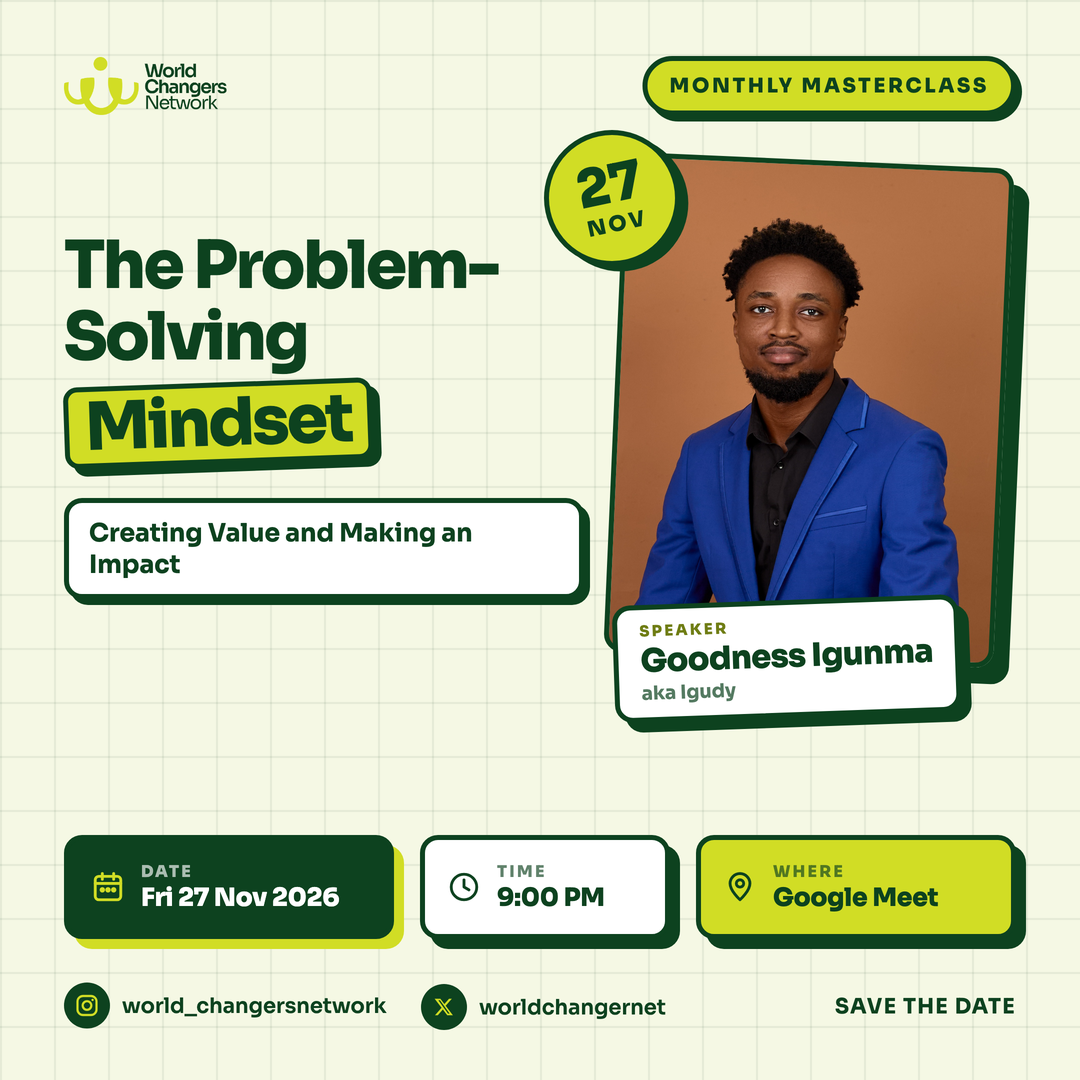
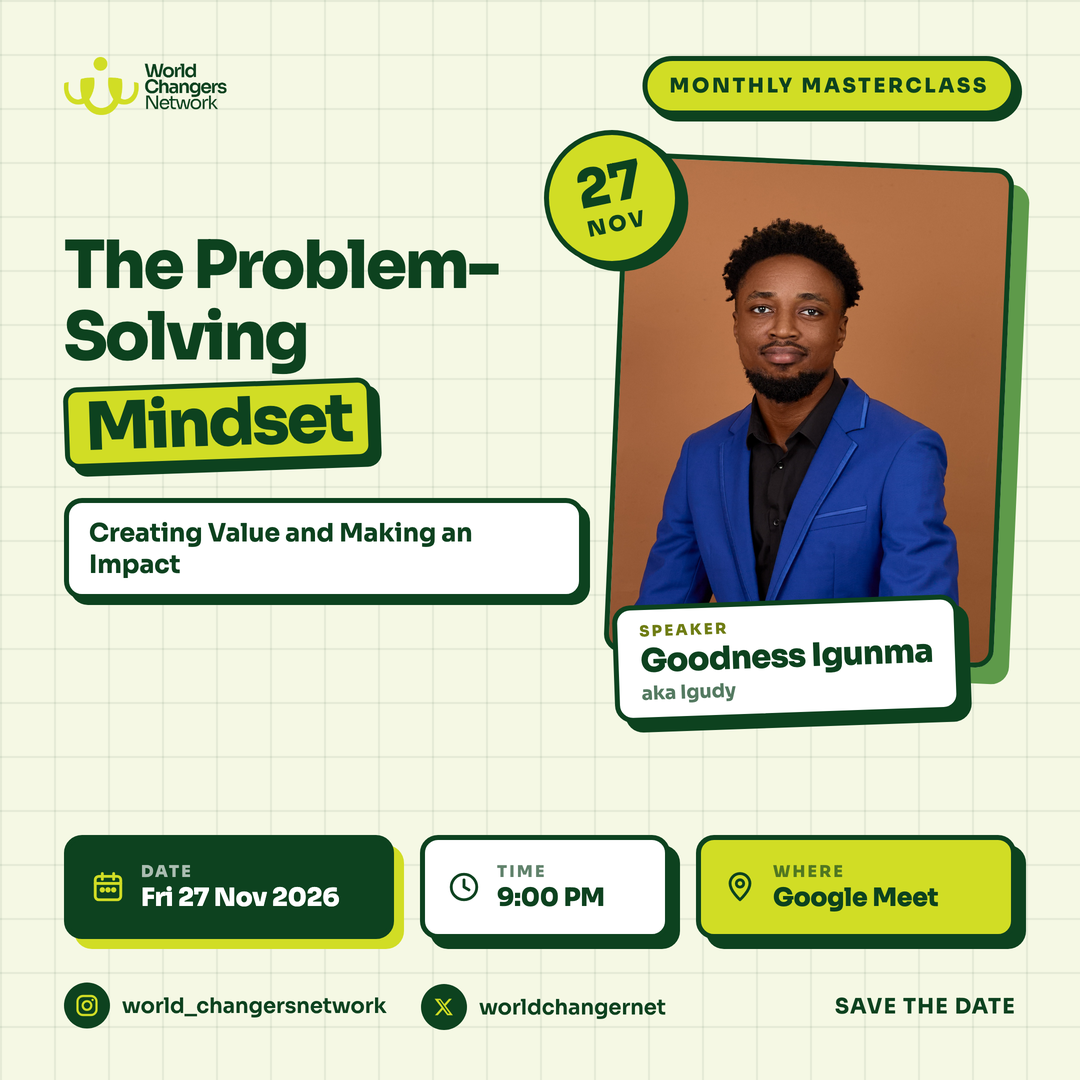
Masterclass brutal: lighter green shadow behind the photo

Changed region(s): [[0.8861, 0.1528, 0.9778, 0.6417]]

diff --git a/tools/masterclass.py b/tools/masterclass.py
@@ -398,7 +398,7 @@ def layout_brutal(row):
   {f'<div class="box" style="display:inline-block;margin-top:34px;background:#fff;padding:14px 20px;font-size:25px;font-weight:700;box-shadow:6px 6px 0 {FOREST}">{g.esc(sub)}</div>' if sub else ''}
 </div>
 <div class="box" style="position:absolute;right:76px;top:{160+o}px;width:390px;height:{500 if SQ else 620}px;
-  transform:rotate(2.5deg);box-shadow:16px 16px 0 {FOREST};
+  transform:rotate(2.5deg);box-shadow:16px 16px 0 #5E9A4A;
   background:url({photo_uri(row)}) {row.get('Photo position') or '50% 20%'}/cover no-repeat"></div>
 <div class="box" style="position:absolute;right:120px;top:{600+o+(0 if SQ else 120)}px;background:#fff;padding:12px 22px;
   transform:rotate(-2deg)">
